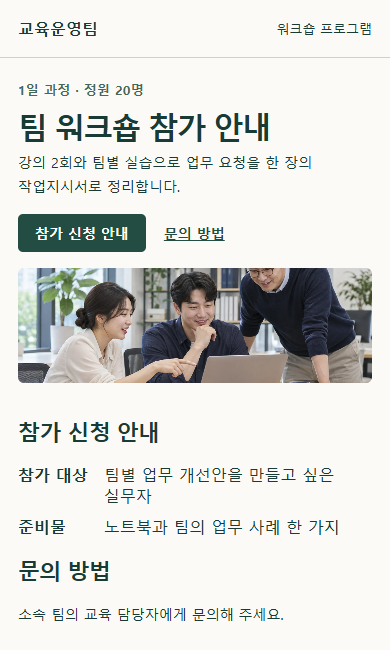
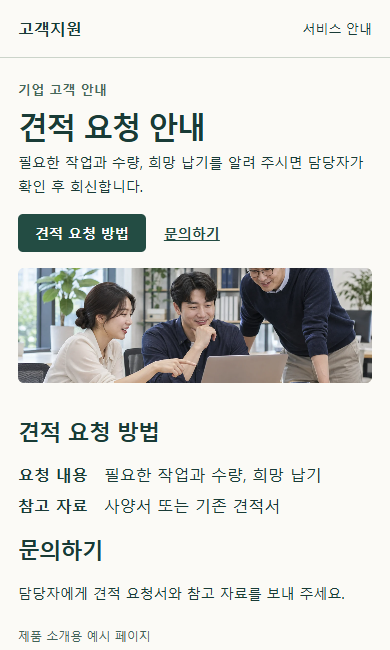
Present customer quote workflows and simplify pricing into four cards

diff --git a/ax-works/index.html b/ax-works/index.html
@@ -1,20 +1,20 @@
-<!doctype html><html lang="ko"><head><meta charset="utf-8"><meta name="viewport" content="width=device-width,initial-scale=1"><title>AX Works 기업 업무 전용 챗봇 | 하이쓰리디 AI</title><meta name="description" content="AX Works는 Windows용 기업 업무 전용 챗봇입니다. 회사 양식으로 견적서와 작업지시서 초안을 만들고, 홈페이지 관리와 마케팅 콘텐츠 준비를 자동화합니다."><link rel="stylesheet" href="/style.css?v=6"><script type="application/ld+json">[{"@context":"https://schema.org","@type":"Product","name":"AX Works","description":"AX Works는 Windows용 기업 업무 전용 챗봇입니다. 회사 양식으로 견적서와 작업지시서 초안을 만들고, 홈페이지 관리와 마케팅 콘텐츠 준비를 자동화합니다.","brand":{"@type":"Brand","name":"하이쓰리디"}}]</script><script type="application/ld+json">{"@context": "https://schema.org", "@type": "FAQPage", "mainEntity": [{"@type": "Question", "name": "지금 설치하거나 결제할 수 있나요?", "acceptedAnswer": {"@type": "Answer", "text": "위 Windows 설치 파일을 내려받아 설치하고 Google 계정으로 로그인하세요. 계정 화면에서 월 구독 또는 Enterprise 월 구독 및 자동충전을 신청할 수 있습니다."}}, {"@type": "Question", "name": "회사 API 키가 앱에 들어가나요?", "acceptedAnswer": {"@type": "Answer", "text": "회사 API 키는 서버에 보관합니다. 앱에서는 고객 계정으로 로그인해 허용된 모델과 잔액을 사용합니다."}}, {"@type": "Question", "name": "AX 워크스페이스와 같은 서비스인가요?", "acceptedAnswer": {"@type": "Answer", "text": "별도 제품입니다. AX Works는 Windows 업무 앱이며, AX 워크스페이스는 맞춤형 웹 업무 공간입니다."}}]}</script><link rel="canonical" href="https://ax.hy3d.kr/ax-works/"><link rel="stylesheet" href="/refinements.css?v=2"><meta property="og:type" content="website"><meta property="og:site_name" content="HY3D AI"><meta property="og:locale" content="ko_KR"><meta property="og:title" content="AX Works 기업 업무 전용 챗봇 | 하이쓰리디 AI"><meta property="og:description" content="AX Works는 Windows용 기업 업무 전용 챗봇입니다. 회사 양식으로 견적서와 작업지시서 초안을 만들고, 홈페이지 관리와 마케팅 콘텐츠 준비를 자동화합니다."><meta property="og:url" content="https://ax.hy3d.kr/ax-works/"><meta property="og:image" content="https://ax.hy3d.kr/assets/ax-works-workspace.png"><meta property="og:image:width" content="1440"><meta property="og:image:height" content="960"><meta property="og:image:alt" content="AX Works에서 업무 봇과 워크숍 운영 브리핑을 함께 연 화면"><meta name="twitter:card" content="summary_large_image"><meta name="twitter:title" content="AX Works 기업 업무 전용 챗봇 | 하이쓰리디 AI"><meta name="twitter:description" content="AX Works는 Windows용 기업 업무 전용 챗봇입니다. 회사 양식으로 견적서와 작업지시서 초안을 만들고, 홈페이지 관리와 마케팅 콘텐츠 준비를 자동화합니다."><meta name="twitter:image" content="https://ax.hy3d.kr/assets/ax-works-workspace.png"><link rel="stylesheet" href="/ax-works/presentation.css?v=2"></head><body><a class="skip" href="#main">본문으로 이동</a><header class="bar"><div class="wrap nav"><a class="brand" href="/" aria-label="하이쓰리디 AI 솔루션 홈"><img src="/assets/hy3d-mark.png" width="31" height="35" alt=""><strong>HY3D</strong><small>AI 솔루션</small></a><nav aria-label="주 메뉴"><a href="/#solutions">솔루션</a><a href="/contact/">도입 문의</a></nav></div></header><main id="main">
+<!doctype html><html lang="ko"><head><meta charset="utf-8"><meta name="viewport" content="width=device-width,initial-scale=1"><title>AX Works 기업 업무 전용 챗봇 | 하이쓰리디 AI</title><meta name="description" content="AX Works는 Windows용 기업 업무 전용 챗봇입니다. 회사 양식으로 견적서와 작업지시서 초안을 만들고, 홈페이지 관리와 마케팅 콘텐츠 준비를 자동화합니다."><link rel="stylesheet" href="/style.css?v=6"><script type="application/ld+json">[{"@context":"https://schema.org","@type":"Product","name":"AX Works","description":"AX Works는 Windows용 기업 업무 전용 챗봇입니다. 회사 양식으로 견적서와 작업지시서 초안을 만들고, 홈페이지 관리와 마케팅 콘텐츠 준비를 자동화합니다.","brand":{"@type":"Brand","name":"하이쓰리디"}}]</script><script type="application/ld+json">{"@context": "https://schema.org", "@type": "FAQPage", "mainEntity": [{"@type": "Question", "name": "지금 설치하거나 결제할 수 있나요?", "acceptedAnswer": {"@type": "Answer", "text": "Windows 설치 파일을 내려받고 Google 계정으로 로그인하세요. 요금제는 앱의 계정 화면에서 선택할 수 있습니다."}}, {"@type": "Question", "name": "회사 API 키가 앱에 들어가나요?", "acceptedAnswer": {"@type": "Answer", "text": "회사 API 키는 서버에 보관합니다. 앱에서는 고객 계정으로 로그인해 허용된 모델과 잔액을 사용합니다."}}, {"@type": "Question", "name": "AX 워크스페이스와 같은 서비스인가요?", "acceptedAnswer": {"@type": "Answer", "text": "별도 제품입니다. AX Works는 Windows 업무 앱이며, AX 워크스페이스는 맞춤형 웹 업무 공간입니다."}}]}</script><link rel="canonical" href="https://ax.hy3d.kr/ax-works/"><link rel="stylesheet" href="/refinements.css?v=2"><meta property="og:type" content="website"><meta property="og:site_name" content="HY3D AI"><meta property="og:locale" content="ko_KR"><meta property="og:title" content="AX Works 기업 업무 전용 챗봇 | 하이쓰리디 AI"><meta property="og:description" content="AX Works는 Windows용 기업 업무 전용 챗봇입니다. 회사 양식으로 견적서와 작업지시서 초안을 만들고, 홈페이지 관리와 마케팅 콘텐츠 준비를 자동화합니다."><meta property="og:url" content="https://ax.hy3d.kr/ax-works/"><meta property="og:image" content="https://ax.hy3d.kr/assets/ax-works-workspace.png?v=quote"><meta property="og:image:width" content="1440"><meta property="og:image:height" content="960"><meta property="og:image:alt" content="AX Works에서 업무 봇과 고객 견적 요청서를 함께 연 화면"><meta name="twitter:card" content="summary_large_image"><meta name="twitter:title" content="AX Works 기업 업무 전용 챗봇 | 하이쓰리디 AI"><meta name="twitter:description" content="AX Works는 Windows용 기업 업무 전용 챗봇입니다. 회사 양식으로 견적서와 작업지시서 초안을 만들고, 홈페이지 관리와 마케팅 콘텐츠 준비를 자동화합니다."><meta name="twitter:image" content="https://ax.hy3d.kr/assets/ax-works-workspace.png?v=quote"><link rel="stylesheet" href="/ax-works/presentation.css?v=3"></head><body><a class="skip" href="#main">본문으로 이동</a><header class="bar"><div class="wrap nav"><a class="brand" href="/" aria-label="하이쓰리디 AI 솔루션 홈"><img src="/assets/hy3d-mark.png" width="31" height="35" alt=""><strong>HY3D</strong><small>AI 솔루션</small></a><nav aria-label="주 메뉴"><a href="/#solutions">솔루션</a><a href="/contact/">도입 문의</a></nav></div></header><main id="main">
 <section class="hero detail ax-hero">
   <div class="wrap hero-inner">
     <div><p class="eyebrow">하이쓰리디 · Windows 업무 앱</p>
       <h1>기업 업무 전용 챗봇<br>AX Works</h1>
-      <p class="lead">영업팀이 받은 워크숍 견적 요청을 제작팀의 작업지시서로 옮기고, 확정된 내용을 모집 페이지와 홍보 원고에 담으세요. 회사 단가표와 참가 안내문을 같은 작업 공간에서 열어 확인할 수 있습니다.</p>
+      <p class="lead">고객의 견적 요청을 회사 양식에 맞춰 견적서로 작성하고, 확정된 내용은 담당자별 작업지시서로 전달하세요. 홈페이지의 서비스 안내와 채널별 홍보 문안도 같은 작업 공간에서 관리할 수 있습니다.</p>
       <div class="actions"><a class="button primary" href="https://github.com/HY3D-co-ltd/ax.hy3d.kr/releases/download/ax-works-windows-2026.11.28/ax-works-windows-setup.exe" aria-describedby="download-status">Windows x64 설치 파일 다운로드</a><a class="button" href="#workflow">업무별 화면 보기</a><a class="button" href="/contact/">도입 문의</a></div><p id="download-status" role="status">Windows 64비트용 무서명 설치 파일입니다. <a href="https://github.com/HY3D-co-ltd/ax.hy3d.kr/releases/download/ax-works-windows-2026.11.28/SHA256SUMS.txt">SHA-256 확인</a></p>
     </div>
     <figure class="ax-capture capture-workspace">
-  <a class="capture-link" href="/assets/ax-works-workspace.png" aria-label="프로젝트 작업 공간 크게 보기"><img src="/assets/ax-works-workspace.png" width="1440" height="960" alt="왼쪽에서 업무 봇을 고르고, 가운데에서 운영 브리핑을 편집합니다. 오른쪽 파일 목록에는 같은 워크숍의 견적과 참가 안내가 모여 있습니다." fetchpriority="high"></a>
-  <figcaption><strong>프로젝트 작업 공간</strong><span>왼쪽에서 업무 봇을 고르고, 가운데에서 운영 브리핑을 편집합니다. 오른쪽 파일 목록에는 같은 워크숍의 견적과 참가 안내가 모여 있습니다.</span></figcaption>
+  <a class="capture-link" href="/assets/ax-works-workspace.png?v=quote" aria-label="프로젝트 작업 공간 크게 보기"><img src="/assets/ax-works-workspace.png?v=quote" width="1440" height="960" alt="가운데에는 고객 견적 요청서가 열려 있습니다. 왼쪽에서 업무 봇을 선택하고 오른쪽 파일 목록에서 견적서와 작업지시서를 확인합니다." fetchpriority="high"></a>
+  <figcaption><strong>프로젝트 작업 공간</strong><span>가운데에는 고객 견적 요청서가 열려 있습니다. 왼쪽에서 업무 봇을 선택하고 오른쪽 파일 목록에서 견적서와 작업지시서를 확인합니다.</span></figcaption>
 </figure>
   </div>
 </section>
 <section class="ax-intro" id="workflow"><div class="wrap">
-  <h2>20명 워크숍, 견적 요청부터 모집까지</h2>
-  <p>교육운영팀에 “20명이 참여하는 워크숍을 열고 싶다”는 문의가 들어왔습니다. 영업·제작·홍보 담당자가 어떤 자료를 넘겨받고 무엇을 확인하는지 따라가 보세요. 아래 화면은 AX Works의 Windows 앱에서 직접 촬영했습니다. 워크숍 문서와 금액은 설명을 위해 작성한 예시입니다.</p>
+  <h2>견적 요청부터 작업지시서까지</h2>
+  <p>고객이 요청한 항목과 수량은 견적서에, 확정된 작업 범위와 납기는 작업지시서에 담습니다. 홈페이지 관리와 마케팅에 필요한 업무도 아래에서 살펴보세요. 화면은 Windows 앱에서 촬영했으며 문서와 금액은 예시입니다.</p>
   <nav class="chapter-links" aria-label="업무별 화면 바로가기"><a href="#bots">기업 업무 전용 챗봇</a>
 <a href="#quotation">견적서 자동화</a>
 <a href="#work-order">작업지시서 자동화</a>
@@ -23,57 +23,57 @@
 <a href="#briefing">운영 브리핑</a></nav>
 </div></section>
 <section id="bots" class="ax-chapter"><div class="wrap ax-layout">
-  <div><header class="chapter-heading"><p class="chapter-label">기업 업무 전용 챗봇</p><h2>회사 자료를 열고, 업무에 맞는 봇에게 요청하세요</h2><p>워크숍을 맡은 운영팀은 프로젝트 폴더에 단가표, 참가 안내문, 운영 브리핑을 모아 둡니다. 견적을 낼 때는 견적서 봇을, 모집 글을 쓸 때는 마케팅 봇을 선택합니다. 같은 행사라도 각 봇에 건네는 자료와 기대하는 결과가 달라집니다.</p></header><figure class="ax-capture capture-bot-directory">
+  <div><header class="chapter-heading"><p class="chapter-label">기업 업무 전용 챗봇</p><h2>회사 자료를 열고, 업무에 맞는 봇에게 요청하세요</h2><p>고객 요청서, 회사 단가표, 서비스 소개 자료를 프로젝트 폴더에 모아 두세요. 견적이 필요할 때는 견적서 봇에 요청서를 건네고, 서비스 안내 글이 필요할 때는 마케팅 봇에 공개할 자료를 건넵니다.</p></header><figure class="ax-capture capture-bot-directory">
   <a class="capture-link" href="/assets/ax-works-bot-directory.png" aria-label="업무 봇 목록 크게 보기"><img src="/assets/ax-works-bot-directory.png" width="500" height="329" alt="프로젝트 왼쪽의 봇 목록에서 여섯 역할의 이름과 업무 지침을 확인할 수 있습니다." loading="lazy"></a>
   <figcaption><strong>업무 봇 목록</strong><span>프로젝트 왼쪽의 봇 목록에서 여섯 역할의 이름과 업무 지침을 확인할 수 있습니다.</span></figcaption>
 </figure></div>
   <div><h3 class="role-heading">여섯 봇에 맡길 수 있는 일</h3><dl class="ax-roles"><div><dt>운영총괄</dt><dd>확정 견적을 바탕으로 담당·기한·완료 기준이 있는 작업지시서 만들기</dd></div>
 <div><dt>견적서 봇</dt><dd>요청서의 수량과 회사 단가표를 대조해 견적 초안 만들기</dd></div>
 <div><dt>지원사업 봇</dt><dd>공고에서 신청 자격, 마감일, 제출 서류를 찾아 체크리스트 만들기</dd></div>
-<div><dt>홈페이지 봇</dt><dd>모집 페이지의 신청 안내, 모바일 배치, 문의 경로 점검하기</dd></div>
-<div><dt>마케팅 봇</dt><dd>참가 안내문으로 블로그·SNS 모집 원고 작성하기</dd></div>
+<div><dt>홈페이지 봇</dt><dd>서비스 안내 페이지의 모바일 배치와 견적 문의 경로 점검하기</dd></div>
+<div><dt>마케팅 봇</dt><dd>서비스 소개 자료로 블로그·SNS 홍보 문안 작성하기</dd></div>
 <div><dt>초기 설정 봇</dt><dd>업무를 시작하는 데 필요한 계정과 도구의 연결 상태 확인하기</dd></div></dl>
   <p class="chapter-note">설정의 ‘AX Works 계정’에서 Google로 로그인하면 기본 봇에 요청을 보낼 수 있습니다. 기본 봇은 AX Company API를 사용합니다.</p></div>
 </div></section>
 <section id="quotation" class="ax-chapter tone"><div class="wrap ax-layout">
-  <div><header class="chapter-heading"><p class="chapter-label">견적서 자동화</p><h2>견적 요청을 항목별 금액으로 풀어 보세요</h2><p>“20명이 참여하는 워크숍입니다. 강의 2회와 교재 20부, 실습 재료 20세트로 견적을 잡아 주세요.” 견적서 봇에는 고객 요청과 회사 단가표를 함께 건넵니다. 담당자는 계산 근거를 확인하고 고객에게 보낼 범위를 결정합니다.</p></header>
+  <div><header class="chapter-heading"><p class="chapter-label">견적서 자동화</p><h2>고객 요청서와 단가표로 견적서를 작성하세요</h2><p>“고객 요청서와 단가표를 기준으로 견적서를 작성해 줘. 추가 비용은 따로 표시해 줘.” 견적서 봇이 준비한 초안에서 품목, 수량, 단가를 확인하고 고객에게 회신할 내용을 정리하세요.</p></header>
   <h3>어디까지 견적에 포함할까요?</h3>
-  <p>강의 2회는 70만 원, 교재 20부는 16만 원, 실습 재료 20세트는 24만 원입니다. 기본 견적은 세 항목을 합한 <strong>110만 원</strong>입니다. 추가 인쇄비는 수량과 단가를 확인한 뒤 별도로 견적을 냅니다.</p>
-  <p>요청서와 견적 CSV를 각각 탭으로 열면 “20부”가 표에 그대로 들어갔는지 확인하고 셀을 직접 수정할 수 있습니다.</p></div>
+  <p>예시 견적은 기본 작업 1건(30만 원)과 추가 작업 2건(건당 5만 원)을 합한 <strong>40만 원</strong>입니다. 배송비처럼 아직 정해지지 않은 비용은 회신 전에 확인합니다.</p>
+  <p>요청서와 견적표를 각각 탭으로 열면 고객이 요청한 수량과 견적 수량을 대조하고 셀을 직접 수정할 수 있습니다.</p></div>
   <div class="capture-stack"><figure class="ax-capture capture-quotation-chat">
-  <a class="capture-link" href="/assets/ax-works-quotation-chat.png" aria-label="견적 요청 작성 크게 보기"><img src="/assets/ax-works-quotation-chat.png" width="1010" height="583" alt="견적서 봇에 인원, 강의 횟수, 교재와 재료 수량을 적은 전송 전 대화 화면입니다." loading="lazy"></a>
-  <figcaption><strong>견적 요청 작성</strong><span>견적서 봇에 인원, 강의 횟수, 교재와 재료 수량을 적은 전송 전 대화 화면입니다.</span></figcaption>
+  <a class="capture-link" href="/assets/ax-works-quotation-chat.png?v=quote" aria-label="견적 요청 작성 크게 보기"><img src="/assets/ax-works-quotation-chat.png?v=quote" width="671" height="608" alt="견적서 봇에 요청 항목과 수량을 입력하고 견적서 초안을 요청하는 전송 전 화면입니다." loading="lazy"></a>
+  <figcaption><strong>견적 요청 작성</strong><span>견적서 봇에 요청 항목과 수량을 입력하고 견적서 초안을 요청하는 전송 전 화면입니다.</span></figcaption>
 </figure><figure class="ax-capture capture-estimate-table">
-  <a class="capture-link" href="/assets/ax-works-estimate.png" aria-label="견적 CSV 편집기 크게 보기"><img src="/assets/ax-works-estimate.png" width="766" height="215" alt="강의 2회, 교재 20부, 실습 재료 20세트의 수량·단가·금액을 행별로 대조합니다." loading="lazy"></a>
-  <figcaption><strong>견적 CSV 편집기</strong><span>강의 2회, 교재 20부, 실습 재료 20세트의 수량·단가·금액을 행별로 대조합니다.</span></figcaption>
+  <a class="capture-link" href="/assets/ax-works-estimate.png?v=quote" aria-label="견적 CSV 편집기 크게 보기"><img src="/assets/ax-works-estimate.png?v=quote" width="669" height="216" alt="기본 작업과 추가 작업의 수량·단가·금액을 확인하고 합계 400,000원을 대조합니다." loading="lazy"></a>
+  <figcaption><strong>견적 CSV 편집기</strong><span>기본 작업과 추가 작업의 수량·단가·금액을 확인하고 합계 400,000원을 대조합니다.</span></figcaption>
 </figure></div>
 </div></section>
 <section id="work-order" class="ax-chapter"><div class="wrap">
-  <header class="chapter-heading"><p class="chapter-label">작업지시서 자동화</p><h2>견적서의 ‘교재 20부’를 제작팀이 실행할 지시로</h2><p>견적이 확정되면 운영총괄에 수량과 행사 일정을 건네고 준비 작업을 나눠 달라고 요청하세요. 제작 담당이 언제까지 무엇을 준비해야 하는지, 운영 담당이 무엇을 확인해야 인계받을 수 있는지 한 문서에 정리합니다.</p></header>
+  <header class="chapter-heading"><p class="chapter-label">작업지시서 자동화</p><h2>확정 견적을 담당자별 작업지시서로</h2><p>운영총괄에 고객과 합의한 작업 범위와 납기를 건네세요. 요청 사항 확인, 작업 진행, 검수 및 전달로 나누어 담당자와 기한, 완료 기준을 한 문서에 정리할 수 있습니다.</p></header>
   <div class="ax-detail-grid"><figure class="ax-capture capture-work-order">
-  <a class="capture-link" href="/assets/ax-works-work-order.png" aria-label="팀 워크숍 작업지시서 크게 보기"><img src="/assets/ax-works-work-order.png" width="990" height="609" alt="교재 인쇄·재료 포장·강의 준비를 담당, 기한, 완료 기준으로 나누고 발주 전 확인 사항을 문서 아래에 둡니다." loading="lazy"></a>
-  <figcaption><strong>팀 워크숍 작업지시서</strong><span>교재 인쇄·재료 포장·강의 준비를 담당, 기한, 완료 기준으로 나누고 발주 전 확인 사항을 문서 아래에 둡니다.</span></figcaption>
+  <a class="capture-link" href="/assets/ax-works-work-order.png?v=quote" aria-label="작업지시서 크게 보기"><img src="/assets/ax-works-work-order.png?v=quote" width="1019" height="642" alt="요청 사항 확인부터 검수 및 전달까지 각 작업의 담당자, 기한, 완료 기준을 기록합니다." loading="lazy"></a>
+  <figcaption><strong>작업지시서</strong><span>요청 사항 확인부터 검수 및 전달까지 각 작업의 담당자, 기한, 완료 기준을 기록합니다.</span></figcaption>
 </figure>
-  <div class="review-copy"><h3>‘인쇄 완료’의 기준까지 전달합니다</h3>
-  <p>제작 담당은 행사 3일 전까지 최종 PDF와 대조한 교재 20부를 준비합니다. 운영 담당은 행사 전날까지 수량표와 대조한 실습 키트 20세트를 인계합니다.</p>
-  <h3>발주 전 확인할 일은 따로 남깁니다</h3><p>기본 수량을 옮긴 뒤에도 예비 교재 수량, 추가 인쇄 단가, 납품 장소는 결정이 필요합니다. 문서 아래에 체크리스트로 남기면 다음 담당자가 확인을 이어갈 수 있습니다.</p></div></div>
+  <div class="review-copy"><h3>담당자가 확인할 완료 기준</h3>
+  <p>영업 담당은 착수 전에 고객이 확인한 작업 범위를 기록합니다. 작업 담당은 납기 전날까지 확정 수량을 마무리하고, 검수 담당은 요청서와 대조한 뒤 최종본을 전달합니다.</p>
+  <h3>인계 전 확인 사항</h3><p>고객과 조율 중인 납기일이나 전달 방법은 체크리스트에 남깁니다. 다음 담당자는 확정된 업무와 추가로 확인할 일을 구분할 수 있습니다.</p></div></div>
 </div></section>
 <section id="website" class="ax-chapter tone"><div class="wrap">
-  <header class="chapter-heading"><p class="chapter-label">홈페이지 관리</p><h2>참가자가 보는 페이지에서 신청과 문의까지 확인하세요</h2><p>홈페이지 봇에 최신 모집 안내와 수정할 페이지를 건네세요. 이 워크숍에서는 정원 20명, 강의 2회, 준비물 두 가지를 안내합니다. 담당자는 수정안을 앱에서 열어 방문자가 프로그램을 이해하고 신청 방법을 찾을 수 있는지 살펴봅니다.</p></header>
+  <header class="chapter-heading"><p class="chapter-label">홈페이지 관리</p><h2>고객이 견적을 요청하는 경로를 점검하세요</h2><p>홈페이지 봇에 서비스 안내와 수정할 페이지를 건네세요. 고객이 요청할 작업, 수량, 희망 납기를 어디에 전달해야 하는지 안내 문구와 문의 경로를 함께 확인할 수 있습니다.</p></header>
   <div class="web-comparison"><figure class="ax-capture capture-website-preview">
-  <a class="capture-link" href="/assets/ax-works-website-preview.png" aria-label="모집 페이지 데스크톱 미리보기 크게 보기"><img src="/assets/ax-works-website-preview.png" width="1019" height="859" alt="앱에서 연 참가 안내 페이지입니다. 정원과 프로그램을 읽은 뒤 신청 안내와 문의 방법으로 이동할 수 있습니다." loading="lazy"></a>
-  <figcaption><strong>모집 페이지 데스크톱 미리보기</strong><span>앱에서 연 참가 안내 페이지입니다. 정원과 프로그램을 읽은 뒤 신청 안내와 문의 방법으로 이동할 수 있습니다.</span></figcaption>
+  <a class="capture-link" href="/assets/ax-works-website-preview.png?v=quote" aria-label="견적 요청 안내 · 데스크톱 크게 보기"><img src="/assets/ax-works-website-preview.png?v=quote" width="1019" height="859" alt="고객이 견적 요청 방법과 참고 자료를 확인하고 문의 방법으로 이동하는 안내 페이지입니다." loading="lazy"></a>
+  <figcaption><strong>견적 요청 안내 · 데스크톱</strong><span>고객이 견적 요청 방법과 참고 자료를 확인하고 문의 방법으로 이동하는 안내 페이지입니다.</span></figcaption>
 </figure><figure class="ax-capture capture-website-mobile">
-  <a class="capture-link" href="/assets/ax-works-website-mobile.png" aria-label="모집 페이지 모바일 미리보기 크게 보기"><img src="/assets/ax-works-website-mobile.png" width="390" height="650" alt="같은 페이지를 너비 390픽셀로 열었습니다. 신청 안내와 문의 방법이 사진 위에 나란히 보입니다." loading="lazy"></a>
-  <figcaption><strong>모집 페이지 모바일 미리보기</strong><span>같은 페이지를 너비 390픽셀로 열었습니다. 신청 안내와 문의 방법이 사진 위에 나란히 보입니다.</span></figcaption>
+  <a class="capture-link" href="/assets/ax-works-website-mobile.png?v=quote" aria-label="견적 요청 안내 · 모바일 크게 보기"><img src="/assets/ax-works-website-mobile.png?v=quote" width="390" height="650" alt="같은 페이지를 휴대폰 너비로 열었습니다. 견적 요청 방법과 문의하기가 첫 화면에 보입니다." loading="lazy"></a>
+  <figcaption><strong>견적 요청 안내 · 모바일</strong><span>같은 페이지를 휴대폰 너비로 열었습니다. 견적 요청 방법과 문의하기가 첫 화면에 보입니다.</span></figcaption>
 </figure></div>
-  <p class="chapter-note">데스크톱과 모바일에서 ‘참가 신청 안내’와 ‘문의 방법’을 열어 도착 위치를 확인하세요. 담당자가 모집 내용과 화면 배치를 검토한 뒤 운영 사이트에 적용할 변경을 결정합니다.</p>
+  <p class="chapter-note">데스크톱과 모바일에서 ‘견적 요청 방법’과 ‘문의하기’를 눌러 보세요. 안내 문구와 연결 위치를 확인한 뒤 운영 사이트에 반영할 변경을 결정합니다.</p>
 </div></section>
 <section id="marketing" class="ax-chapter"><div class="wrap">
-  <header class="chapter-heading"><p class="chapter-label">마케팅 자동화</p><h2>하나의 참가 안내문으로 블로그 글과 SNS 원고를 준비하세요</h2><p>마케팅 봇에 참가 안내문과 게시할 채널을 알려주세요. 블로그 원고에는 첫 시간에 배울 내용과 실습 후 가져갈 결과물을 담습니다. SNS 원고는 팀에서 자주 겪는 문제를 첫 문장에 놓고, 강의 횟수와 모집 인원을 짧게 안내합니다.</p></header>
-  <div class="ax-marketing-grid"><div><h3>채널에 맞춰 원고 검토하기</h3><p>두 원고의 길이와 첫 문장은 달라도 정원과 프로그램은 같아야 합니다. 원본 참가 안내문과 대조한 뒤 신청 마감일과 링크를 확인합니다.</p><figure class="ax-capture capture-campaign-copy">
-  <a class="capture-link" href="/assets/ax-works-campaign-copy.png" aria-label="채널별 모집 원고 크게 보기"><img src="/assets/ax-works-campaign-copy.png" width="990" height="594" alt="블로그에는 참여자가 할 일을 풀어 쓰고, SNS에는 모집 인원과 프로그램을 짧게 담았습니다. 두 글 아래에 게시 전 확인 목록이 있습니다." loading="lazy"></a>
-  <figcaption><strong>채널별 모집 원고</strong><span>블로그에는 참여자가 할 일을 풀어 쓰고, SNS에는 모집 인원과 프로그램을 짧게 담았습니다. 두 글 아래에 게시 전 확인 목록이 있습니다.</span></figcaption>
+  <header class="chapter-heading"><p class="chapter-label">마케팅 자동화</p><h2>서비스 소개 자료로 블로그 글과 SNS 문안을 준비하세요</h2><p>마케팅 봇에 공개할 서비스 자료와 게시할 채널을 알려 주세요. 블로그에는 견적을 요청하는 방법과 필요한 자료를 설명하고, SNS에는 고객이 바로 문의할 수 있도록 짧은 안내를 담습니다.</p></header>
+  <div class="ax-marketing-grid"><div><h3>채널에 맞춰 원고 검토하기</h3><p>게시 전에 두 원고에서 서비스 범위와 문의 경로가 정확한지 확인합니다. 홈페이지에 공개한 안내와 대조한 뒤 담당자가 게시할 문안을 승인합니다.</p><figure class="ax-capture capture-campaign-copy">
+  <a class="capture-link" href="/assets/ax-works-campaign-copy.png?v=quote" aria-label="채널별 서비스 소개 문안 크게 보기"><img src="/assets/ax-works-campaign-copy.png?v=quote" width="1019" height="642" alt="블로그용 견적 요청 안내와 SNS용 짧은 문구를 나란히 검토합니다. 두 글 아래에는 게시 전 확인 목록이 있습니다." loading="lazy"></a>
+  <figcaption><strong>채널별 서비스 소개 문안</strong><span>블로그용 견적 요청 안내와 SNS용 짧은 문구를 나란히 검토합니다. 두 글 아래에는 게시 전 확인 목록이 있습니다.</span></figcaption>
 </figure></div>
   <div><h3>다음 초안 작성 예약하기</h3><p>기본 예약의 제안 시간은 오전 9시입니다. 담당 봇과 요청 내용을 확인하고 팀 일정에 맞춰 재개하세요. 채널 게시와 광고 집행은 별도 승인을 거칩니다.</p><figure class="ax-capture capture-marketing-schedule">
   <a class="capture-link" href="/assets/ax-works-marketing-schedule.png" aria-label="마케팅 초안 예약 크게 보기"><img src="/assets/ax-works-marketing-schedule.png" width="1019" height="552" alt="자동화 상세 화면에서 담당 봇과 반복 시간을 확인하고, 초안 작성 범위와 게시 승인 조건을 읽을 수 있습니다." loading="lazy"></a>
@@ -81,13 +81,29 @@
 </figure></div></div>
 </div></section>
 <section id="briefing" class="ax-chapter tone"><div class="wrap ax-layout">
-  <div><header class="chapter-heading"><p class="chapter-label">운영 브리핑</p><h2>다음 날 아침, 끝난 일과 확인할 일을 이어 보세요</h2><p>운영총괄의 아침 브리핑은 업무 기록과 산출물을 읽어 성공·실패·미확인 항목을 나누도록 설정돼 있습니다. 제작팀에 넘긴 교재 수량은 근거 문서와 대조하고, 답을 받지 못한 추가 인쇄 단가는 다음 담당자가 확인할 일로 남길 수 있습니다.</p></header><h3>팀 근무 시간에 맞춰 재개하세요</h3><p>기본 브리핑은 현지 시각 오전 9시로 설정돼 있고 처음에는 일시 중지되어 있습니다. 실행 위치와 계정을 준비한 뒤 재개하면 자동화 상세 화면에서 일정과 최근 실행을 확인할 수 있습니다.</p></div>
+  <div><header class="chapter-heading"><p class="chapter-label">운영 브리핑</p><h2>다음 날 아침, 끝난 일과 확인할 일을 이어 보세요</h2><p>운영총괄의 아침 브리핑은 업무 기록과 산출물을 읽어 성공·실패·미확인 항목을 나누도록 설정돼 있습니다. 회신한 견적과 검수가 끝난 작업을 확인하고, 고객 답변을 기다리는 납기나 추가 비용은 다음 담당자가 이어서 확인할 수 있습니다.</p></header><h3>팀 근무 시간에 맞춰 재개하세요</h3><p>기본 브리핑은 현지 시각 오전 9시로 설정돼 있고 처음에는 일시 중지되어 있습니다. 실행 위치와 계정을 준비한 뒤 재개하면 자동화 상세 화면에서 일정과 최근 실행을 확인할 수 있습니다.</p></div>
   <figure class="ax-capture capture-morning-briefing">
   <a class="capture-link" href="/assets/ax-works-morning-briefing.png" aria-label="운영총괄 아침 브리핑 크게 보기"><img src="/assets/ax-works-morning-briefing.png" width="1019" height="565" alt="오전 9시 반복 일정과 실행 위치, 운영총괄에 전달할 지시를 함께 확인하는 화면입니다." loading="lazy"></a>
   <figcaption><strong>운영총괄 아침 브리핑</strong><span>오전 9시 반복 일정과 실행 위치, 운영총괄에 전달할 지시를 함께 확인하는 화면입니다.</span></figcaption>
 </figure>
 </div></section>
-<section id="distribution" class="wrap section"><h2>업무 환경과 배포 안내</h2><div class="feature-grid"><article><h3>업무별 프로젝트</h3><p>문서와 작업 맥락을 정리하고 AI와 다음 할 일을 검토합니다. 결과는 사용자가 확인합니다.</p></article><article><h3>공식 API와 사용량 한도</h3><p>Claude와 GPT가 하나의 AX 크레딧 잔액을 사용합니다. 요청에 필요한 크레딧이 부족하면 회사 API 호출을 멈춥니다.</p></article><article><h3>독립 Windows 앱</h3><p>첫 Windows 버전은 이 페이지에서 직접 설치하는 방식으로 배포합니다. 초기 설치 파일에는 코드 서명이 없어 Windows가 실행 전 경고를 표시할 수 있습니다.</p></article></div></section><section class="wrap section"><h2>출시 요금제</h2><dl><dt>Free · 무료</dt><dd>카드 등록 없이 Google 계정당 최초 한 번 5,000 AX 크레딧을 받습니다.</dd><dt>Pro · 월 30,000원</dt><dd>결제 회차마다 21,000 AX 크레딧을 받습니다.</dd><dt>Premium · 월 300,000원</dt><dd>결제 회차마다 210,000 AX 크레딧을 받습니다.</dd><dt>Enterprise · 월 900,000원</dt><dd>매월 900,000원 정기결제 승인 시 630,000크레딧을 받습니다. 이후 회사 AI 요청에 잔액이 부족할 때마다 등록 카드로 100,000원을 자동결제하고 70,000크레딧을 추가합니다. 각 충전분은 승인일부터 한 달간 유효합니다. 월 추가결제 상한은 직접 정하며 월 이용료는 추가결제 상한에서 제외됩니다. 계정에서 구독을 해지하면 월 이용료와 자동충전이 모두 중지됩니다.</dd></dl><p>Pro와 Premium은 매월 정기결제합니다. Pro와 Premium은 자동충전이 기본으로 꺼져 있습니다. 고객이 별도로 동의하고 월 추가결제 상한을 설정하면, 잔액 부족 시 100,000원마다 70,000크레딧을 충전합니다. 계정에서 자동충전만 끌 수 있습니다. Free는 잔액을 다 쓰면 요청을 중지합니다. 회사 AI 사용량은 모델별 입력·출력·캐시 단가와 서비스 기준 환율(달러당 1,400원)로 계산합니다.</p></section><section class="wrap section faq"><h2>자주 묻는 질문</h2><details><summary>지금 설치하거나 결제할 수 있나요?</summary><p>위 Windows 설치 파일을 내려받아 설치하고 Google 계정으로 로그인하세요. 계정 화면에서 월 구독 또는 Enterprise 월 구독 및 자동충전을 신청할 수 있습니다.</p></details><details><summary>회사 API 키가 앱에 들어가나요?</summary><p>회사 API 키는 서버에 보관합니다. 앱에서는 고객 계정으로 로그인해 허용된 모델과 잔액을 사용합니다.</p></details><details><summary>AX 워크스페이스와 같은 서비스인가요?</summary><p>별도 제품입니다. AX Works는 Windows 업무 앱이며, <a href="/ax-workspace/">AX 워크스페이스</a>는 맞춤형 웹 업무 공간입니다.</p></details></section></main><footer><div class="wrap foot"><div><strong>㈜하이쓰리디</strong><p>대표 이정욱 · 경기도 안산시 한양대학로 55, 204호</p><a href="mailto:mktg@hy3d.kr">mktg@hy3d.kr</a></div><div><p>구독 해지, 결제 내역, 이용약관과 개인정보 처리에 관한 문의는 <a href="/contact/">고객 문의</a>로 접수해 주세요.</p></div></div></footer><dialog class="ax-viewer" aria-labelledby="viewer-title">
+<section id="distribution" class="wrap section"><h2>업무 환경과 배포 안내</h2><div class="feature-grid"><article><h3>업무별 프로젝트</h3><p>문서와 작업 맥락을 정리하고 AI와 다음 할 일을 검토합니다. 결과는 사용자가 확인합니다.</p></article><article><h3>공식 API와 사용량 한도</h3><p>Claude와 GPT가 하나의 AX 크레딧 잔액을 사용합니다. 요청에 필요한 크레딧이 부족하면 회사 API 호출을 멈춥니다.</p></article><article><h3>독립 Windows 앱</h3><p>첫 Windows 버전은 이 페이지에서 직접 설치하는 방식으로 배포합니다. 초기 설치 파일에는 코드 서명이 없어 Windows가 실행 전 경고를 표시할 수 있습니다.</p></article></div></section><section id="pricing" class="wrap section ax-pricing" aria-labelledby="pricing-title">
+  <h2 id="pricing-title">요금제</h2>
+  <div class="ax-plan-grid">
+    <article class="ax-plan"><h3>Free</h3>
+      <p class="plan-price"><strong>0원</strong></p>
+      <p class="plan-credit"><span>최초 1회 제공</span><strong>5,000 AX 크레딧</strong></p></article>
+    <article class="ax-plan"><h3>Pro</h3>
+      <p class="plan-price"><strong>30,000원</strong><span> / 월</span></p>
+      <p class="plan-credit"><span>매월 제공</span><strong>21,000 AX 크레딧</strong></p></article>
+    <article class="ax-plan"><h3>Premium</h3>
+      <p class="plan-price"><strong>300,000원</strong><span> / 월</span></p>
+      <p class="plan-credit"><span>매월 제공</span><strong>210,000 AX 크레딧</strong></p></article>
+    <article class="ax-plan"><h3>Enterprise</h3>
+      <p class="plan-price"><strong>900,000원</strong><span> / 월</span></p>
+      <p class="plan-credit"><span>매월 제공</span><strong>630,000 AX 크레딧</strong></p></article>
+  </div>
+</section><section class="wrap section faq"><h2>자주 묻는 질문</h2><details><summary>지금 설치하거나 결제할 수 있나요?</summary><p>Windows 설치 파일을 내려받고 Google 계정으로 로그인하세요. 요금제는 앱의 계정 화면에서 선택할 수 있습니다.</p></details><details><summary>회사 API 키가 앱에 들어가나요?</summary><p>회사 API 키는 서버에 보관합니다. 앱에서는 고객 계정으로 로그인해 허용된 모델과 잔액을 사용합니다.</p></details><details><summary>AX 워크스페이스와 같은 서비스인가요?</summary><p>별도 제품입니다. AX Works는 Windows 업무 앱이며, <a href="/ax-workspace/">AX 워크스페이스</a>는 맞춤형 웹 업무 공간입니다.</p></details></section></main><footer><div class="wrap foot"><div><strong>㈜하이쓰리디</strong><p>대표 이정욱 · 경기도 안산시 한양대학로 55, 204호</p><a href="mailto:mktg@hy3d.kr">mktg@hy3d.kr</a></div><div><p>서비스 이용 및 계정에 관한 문의는 <a href="/contact/">고객 문의</a>로 접수해 주세요.</p></div></div></footer><dialog class="ax-viewer" aria-labelledby="viewer-title">
   <div class="viewer-toolbar"><h2 id="viewer-title">제품 화면</h2><a data-original target="_blank" rel="noopener">원본 열기</a><button type="button" data-close>닫기</button></div>
   <div class="viewer-stage"><img alt="" id="viewer-image"></div>
   <div class="viewer-bottom"><p id="viewer-description" aria-live="polite"></p><div class="viewer-controls"><button type="button" data-prev aria-label="이전 화면">← 이전</button><span id="viewer-count"></span><button type="button" data-next aria-label="다음 화면">다음 →</button></div></div>

diff --git a/index.html b/index.html
@@ -1,7 +1,7 @@
 <!doctype html><html lang="ko"><head><meta charset="utf-8"><meta name="viewport" content="width=device-width,initial-scale=1"><title>AI 솔루션 | 하이쓰리디 AI</title><meta name="description" content="기업 업무 전용 챗봇 AX Works와 메이킷, WBS Planner, AI콜, AX 워크스페이스 등 하이쓰리디의 AI 솔루션을 만나보세요."><link rel="stylesheet" href="/style.css?v=9"><link rel="canonical" href="https://ax.hy3d.kr/"><link rel="stylesheet" href="/refinements.css?v=2"><meta property="og:type" content="website"><meta property="og:site_name" content="HY3D AI"><meta property="og:locale" content="ko_KR"><meta property="og:title" content="AI 솔루션 | 하이쓰리디 AI"><meta property="og:description" content="기업 업무 전용 챗봇 AX Works와 메이킷, WBS Planner, AI콜, AX 워크스페이스 등 하이쓰리디의 AI 솔루션을 만나보세요."><meta property="og:url" content="https://ax.hy3d.kr/"><meta property="og:image" content="https://ax.hy3d.kr/assets/ax-ai-share.png"><meta property="og:image:width" content="1734"><meta property="og:image:height" content="907"><meta property="og:image:alt" content="AI 솔루션 | 하이쓰리디 AI"><meta name="twitter:card" content="summary_large_image"><meta name="twitter:title" content="AI 솔루션 | 하이쓰리디 AI"><meta name="twitter:description" content="기업 업무 전용 챗봇 AX Works와 메이킷, WBS Planner, AI콜, AX 워크스페이스 등 하이쓰리디의 AI 솔루션을 만나보세요."><meta name="twitter:image" content="https://ax.hy3d.kr/assets/ax-ai-share.png"><link rel="stylesheet" href="/ax-works/presentation.css"></head><body><a class="skip" href="#main">본문으로 이동</a><header class="bar"><div class="wrap nav"><a class="brand" href="/" aria-label="하이쓰리디 AI 솔루션 홈"><img src="/assets/hy3d-mark.png" width="31" height="35" alt=""><strong>HY3D</strong><small>AI 솔루션</small></a><nav aria-label="주 메뉴"><a href="/#solutions">솔루션</a><a href="/ax-works/">AX Works</a><a href="/contact/">도입 문의</a></nav></div></header><main id="main"><section class="hero hero-carousel" aria-label="하이쓰리디 AI 솔루션"><div class="wrap carousel-shell"><h1 class="sr-only">하이쓰리디 AI 솔루션</h1><div class="carousel-viewport" tabindex="0" role="region" aria-label="&#49556;&#47336;&#49496; &#49548;&#44060;. &#51340;&#50864; &#48169;&#54693;&#53412;&#47196; &#51060;&#46041;"><div class="carousel-track"><article class="hero-slide" aria-label="메이킷"><div class="slide-copy"><p class="eyebrow">마케팅 자동화 · 이용 가능</p><h2>사진에서 쇼츠까지, 메이킷.</h2><p class="lead">제품과 매장 사진으로 쇼츠를 만들고, 블로그와 SNS 콘텐츠 운영을 자동화하세요.</p><div class="actions"><a class="button primary" href="/makit/">메이킷 자세히 보기</a></div></div><div class="slide-media"><img src="/assets/hy3d-makit-photo.webp" width="1600" height="900" alt="휴대전화로 매장 제품을 촬영하는 모습" fetchpriority="high"></div></article><article class="hero-slide" aria-label="AX Works" inert>
   <div class="slide-copy"><p class="eyebrow">AX Works · 기업 업무 전용 챗봇</p><h2>견적서를 준비하고 작업지시서로 이어가세요.</h2><p class="lead">회사 양식으로 견적을 잡고, 확정된 작업을 담당자와 기한별로 정리하세요. 홈페이지 관리와 마케팅 원고 준비까지 한 프로젝트에서 진행합니다.</p><div class="actions"><a class="button primary" href="/ax-works/">업무별 설명과 앱 화면 보기</a></div></div>
-  <div class="slide-media"><img src="/assets/ax-works-workspace.png" width="1440" height="960" alt="AX Works의 업무 봇과 워크숍 운영 브리핑" loading="lazy"></div>
+  <div class="slide-media"><img src="/assets/ax-works-workspace.png?v=quote" width="1440" height="960" alt="AX Works의 업무 봇과 고객 견적 요청서" loading="lazy"></div>
 </article><article class="hero-slide" aria-label="WBS Planner" inert><div class="slide-copy"><p class="eyebrow">정부과제 문서 · 사내 운영 중</p><h2>복잡한 과제 일정을 작업 단위로 정리하세요.</h2><p class="lead">WBS와 간트 차트로 작업 구조, 일정 변경, 진행 상황을 한곳에서 확인하세요.</p><div class="actions"><a class="button primary" href="/wbs/">WBS Planner 자세히 보기</a></div></div><div class="slide-media wbs"><img src="/assets/wbs-product-overview.png" width="1690" height="931" alt="산출물별 작업 목록과 일정 막대를 함께 보여주는 WBS·간트 개념 이미지" loading="lazy"><span class="media-caption">예시 화면</span></div></article><article class="hero-slide" aria-label="AI콜" inert><div class="slide-copy"><p class="eyebrow">가족 안부 · 개발 중</p><h2>부모님께 안부를 묻는 AI 전화.</h2><p class="lead">혼자 사시는 부모님께 AI가 안부를 묻고 일상 이야기를 나누는 서비스를 개발하고 있습니다.</p><div class="actions"><a class="button primary" href="/ai-call/">AI콜 자세히 보기</a></div></div><div class="slide-media"><img src="/assets/ai-call-photo.webp" width="1440" height="810" alt="집에서 안부 전화를 받는 모습" loading="lazy"></div></article><article class="hero-slide" aria-label="AX 워크스페이스" inert><div class="slide-copy"><p class="eyebrow">팀 업무 · 출시 준비 중</p><h2>회사 업무에 맞춘 AI 워크스페이스.</h2><p class="lead">회사 자료와 업무 방식을 바탕으로 맞춤 업무 페이지를 만드는 서비스를 준비하고 있습니다.</p><div class="actions"><a class="button primary" href="/ax-workspace/">AX 워크스페이스 자세히 보기</a></div></div><div class="slide-media"><img src="/assets/ax-workspace-photo.webp" width="1440" height="810" alt="팀원들이 함께 업무를 검토하는 모습" loading="lazy"></div></article></div></div><p class="sr-only carousel-status"></p></div></section><section id="solutions" class="wrap section"><h2>업무에 맞는 솔루션</h2><div class="grid"><a class="card ax-hub-card" href="/ax-works/">
-  <div class="art" aria-hidden="true"><img src="/assets/ax-works-workspace.png" width="1440" height="960" alt="" loading="lazy"></div>
-  <div class="card-content"><div class="tags"><span>기업 업무 전용 챗봇</span><span>Windows 다운로드</span></div><h3>AX Works</h3><p>20명 워크숍 견적의 교재 수량이 제작팀 작업지시서로 이어집니다. 모집 페이지와 블로그·SNS 원고까지 Windows 앱 화면으로 살펴보세요.</p><span class="more">앱 화면과 Windows 다운로드</span></div>
+  <div class="art" aria-hidden="true"><img src="/assets/ax-works-workspace.png?v=quote" width="1440" height="960" alt="" loading="lazy"></div>
+  <div class="card-content"><div class="tags"><span>기업 업무 전용 챗봇</span><span>Windows 다운로드</span></div><h3>AX Works</h3><p>고객의 견적 요청을 견적서로 작성하고, 확정된 내용을 작업지시서로 전달하세요. 홈페이지 관리와 마케팅 문안도 업무별 화면에서 살펴볼 수 있습니다.</p><span class="more">앱 화면과 Windows 다운로드</span></div>
 </a><a class="card" href="/makit/"><div aria-hidden="true" class="art makit"><img src="/assets/hy3d-makit-photo.webp" width="1600" height="900" alt="" loading="lazy"></div><div class="card-content"><div class="tags"><span>마케팅 자동화</span><span>이용 가능</span></div><h3>메이킷</h3><p>쇼츠 제작과 블로그·SNS 운영 자동화.</p><span class="more">자세히 보기</span></div></a><a class="card" href="/wbs/"><div aria-hidden="true" class="art wbs"><img src="/assets/wbs-product-overview.png" width="1690" height="931" alt="" loading="lazy"></div><div class="card-content"><div class="tags"><span>과제 문서</span><span>사내 운영 중</span></div><h3>WBS Planner</h3><p>복잡한 과제 일정을 작업 단위로 정리하세요.</p><span class="more">자세히 보기</span></div></a><a class="card" href="/ai-call/"><div aria-hidden="true" class="art ai-call"><img src="/assets/ai-call-photo.webp" width="1440" height="810" alt="집에서 안부 전화를 받는 모습" loading="lazy"></div><div class="card-content"><div class="tags"><span>가족 안부</span><span>개발 중</span></div><h3>AI콜</h3><p>부모님께 안부를 묻는 AI 전화.</p><span class="more">자세히 보기</span></div></a><a class="card" href="/ax-workspace/"><div aria-hidden="true" class="art ax-workspace"><img src="/assets/ax-workspace-photo.webp" width="1440" height="810" alt="팀원들이 함께 업무를 검토하는 모습" loading="lazy"></div><div class="card-content"><div class="tags"><span>팀 업무</span><span>출시 준비 중</span></div><h3>AX 워크스페이스</h3><p>회사 자료로 만드는 맞춤형 업무 공간.</p><span class="more">자세히 보기</span></div></a></div></section><section class="band"><div class="wrap band-inner"><div><h2>도입 방법을 함께 찾아보세요.</h2><p>현재 업무 방식에 맞춰 필요한 서비스와 구성을 안내합니다.</p></div><a class="button primary" href="/contact/">도입 문의</a></div></section></main><footer><div class="wrap foot"><div><strong>㈜하이쓰리디</strong><p>대표 이정욱 · 경기도 안산시 한양대학로 55, 204호</p><a href="mailto:mktg@hy3d.kr">mktg@hy3d.kr</a></div><div><a href="https://hy3d-ai.kr/terms_of_use/">메이킷 이용약관</a><a href="https://hy3d-ai.kr/privacy_policy/">메이킷 개인정보처리방침</a></div></div></footer><script src="/carousel.js?v=2" defer></script></body></html>

diff --git a/ax-works/presentation.css b/ax-works/presentation.css
@@ -106,3 +106,22 @@ body:has(.ax-viewer[open]) { overflow: hidden; }
     padding: clamp(1.5rem, 4vw, 3rem);
   }
 }
+
+.ax-pricing { padding-block: clamp(2.5rem, 5vw, 4rem); }
+.ax-pricing h2 { margin: 0 0 1.4rem; }
+.ax-plan-grid { display: grid; grid-template-columns: repeat(4, minmax(0, 1fr)); gap: 1rem; }
+.ax-plan { background: white; border: 1px solid var(--line); border-radius: 10px; padding: clamp(1.1rem, 2vw, 1.7rem); }
+.ax-plan h3 { margin: 0; color: var(--accent); font-size: 1.125rem; }
+.ax-plan .plan-price { margin: .65rem 0 1.25rem; display: flex; flex-wrap: wrap; align-items: baseline; gap: .3rem; }
+.plan-price strong { font-size: clamp(1.4rem, 2.3vw, 2rem); letter-spacing: -.04em; line-height: 1.3; }
+.plan-price span, .plan-credit span { font-size: .875rem; color: var(--muted); }
+.ax-plan .plan-credit { display: grid; gap: .1rem; margin: 0; padding-top: .85rem; border-top: 1px solid var(--line); }
+.plan-credit strong { font-size: 1rem; }
+@media (max-width: 900px) { .ax-plan-grid { grid-template-columns: repeat(2, minmax(0, 1fr)); } }
+@media (max-width: 520px) {
+  .ax-plan-grid { gap: .6rem; }
+  .ax-plan { padding: .9rem .7rem; }
+  .plan-price strong { font-size: 1.25rem; }
+  .plan-credit strong { font-size: .875rem; }
+}
+@media (max-width: 350px) { .ax-plan-grid { grid-template-columns: 1fr; } }
